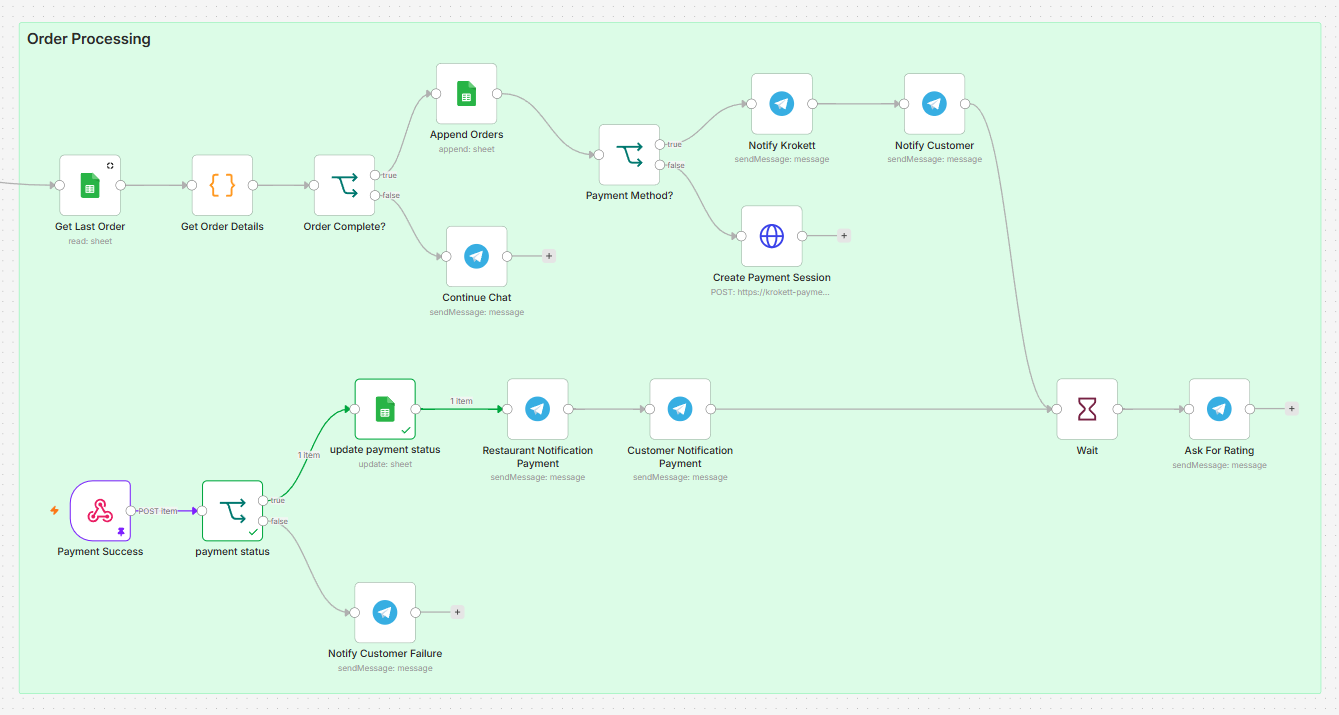
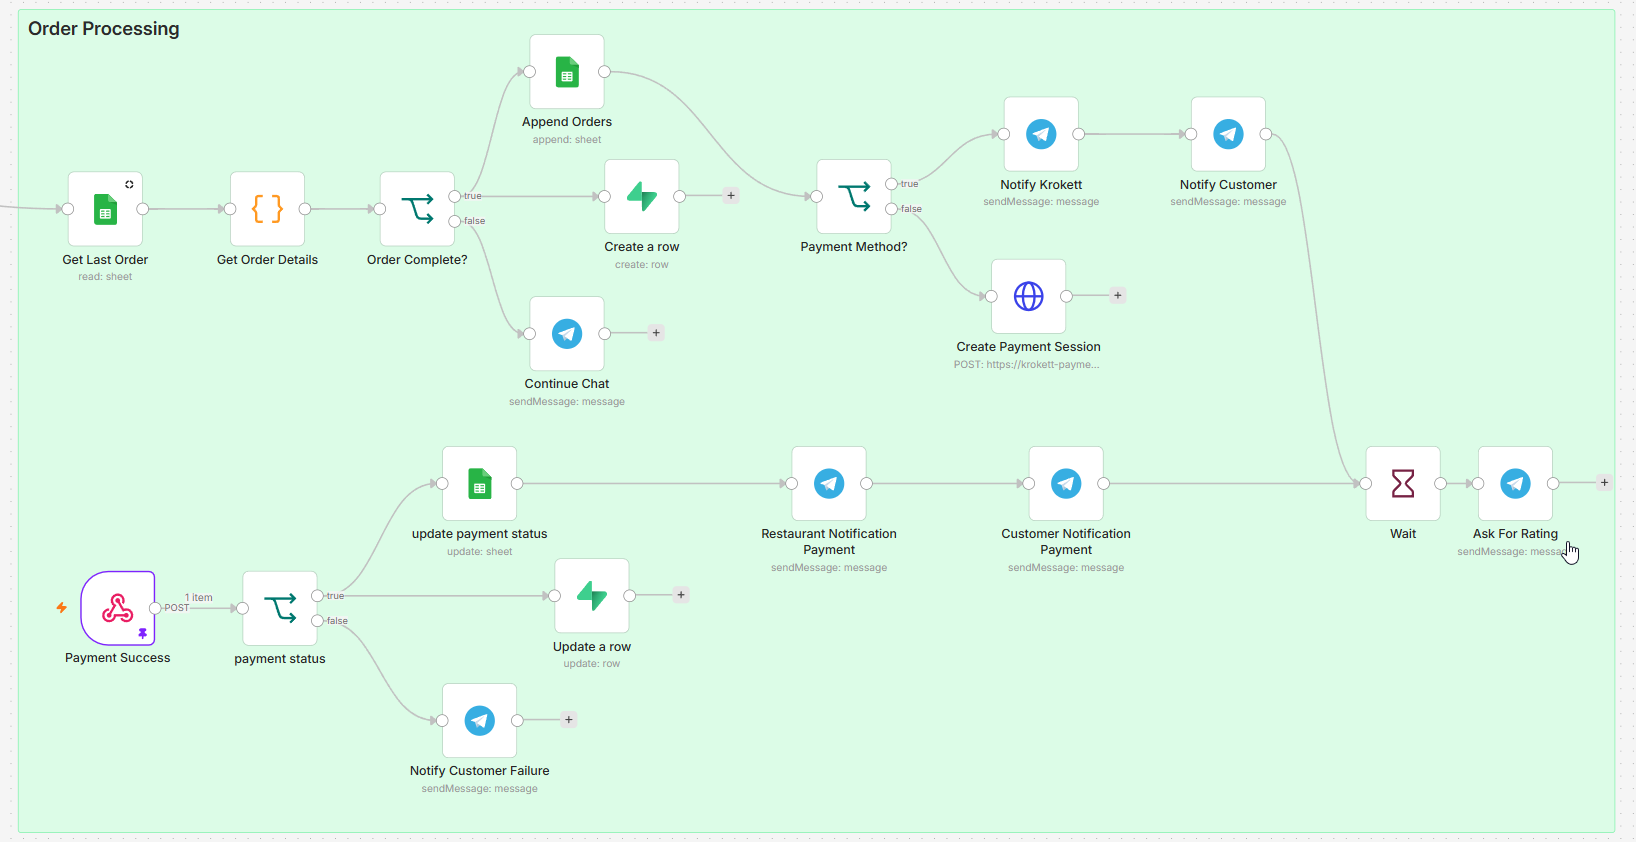
update

Changed region(s): [[0.0, 0.0, 1.0, 1.0], [0.2143, 0.5231, 1.0, 0.8]]

diff --git a/index.html b/index.html
@@ -807,16 +807,16 @@ const A='assets/projects/';
 const P=[
 {n:'Krokett Assistant',d:'krokett/',c:['مطاعم ومبيعات','Restaurants & sales'],p:'krokett-full.png',
  s:['مساعد طلبات المطاعم عبر تليجرام','Restaurant ordering assistant on Telegram'],
- t:['العميل يبعت رسالة أو صوت على تليجرام ← النظام يفهم الطلب من المنيو، يحسب السعر، يجمع العنوان وطريقة الدفع، ويسجّل الطلب وينبّه المطبخ تلقائيًا.','Customer sends a text or voice note on Telegram → the system reads the order from the menu, prices it, collects address and payment, then logs the order and alerts the kitchen.'],
- f:[['يفهم الرسائل الصوتية والنصية بالعربية','Understands Arabic voice and text'],['يرد من منيو المطعم والأسعار الحقيقية','Replies from the real menu and prices'],['يسجّل الطلب وينبّه المطبخ بدون تدخل يدوي','Logs the order and alerts the kitchen, no manual work']],
- g:['34 Nodes','n8n','RAG / Pinecone','Gemini API','Telegram API'],
+ t:['العميل يبعت رسالة أو صوت على تليجرام ← النظام يفك الصوت إن وُجد، يوجّه المحادثة (ترحيب / طلب / تتبع / تقييم)، يفهم الطلب من المنيو عبر AI + RAG، يسجّل الطلب، يعالج الدفع، وينبّه المطعم والعميل تلقائيًا.','Customer sends text or voice on Telegram → the system transcribes voice if needed, routes the chat (welcome / order / track / rating), understands the order from the menu via AI + RAG, logs it, handles payment, and notifies the restaurant and customer automatically.'],
+ f:[['يفهم الرسائل النصية والصوتية بالعربية','Understands Arabic text and voice messages'],['توجيه ذكي: ترحيب، طلب، تتبع طلب، وتقييم','Smart routing: welcome, order, track order, and rating'],['AI + RAG من منيو المطعم مع ذاكرة محادثة','AI + RAG from the restaurant menu with chat memory'],['تسجيل الطلب، الدفع، وتنبيه المطعم والعميل','Order logging, payment, and restaurant + customer alerts']],
+ g:['n8n','Gemini AI','Pinecone / RAG','HuggingFace Embeddings','Telegram API','Google Sheets'],
  v:[{f:'krokett-mockup.mp4',portrait:true}],
  b:[
-  {t:['المخطط الكامل','Full blueprint'],f:'krokett-full.png',d:['نظرة شاملة على مسار الطلب من أول رسالة لحد تسجيله وتنبيه المطبخ.','Full path from the first message to order logging and kitchen alert.']},
-  {t:['الاستقبال والصوت','Intake & voice'],f:'Trigger.png',d:['استقبال رسائل تليجرام وفك الرسائل الصوتية عشان النظام يفهم الطلب.','Receives Telegram messages and transcribes voice notes so the system understands the order.']},
-  {t:['توجيه المسارات','Routing'],f:'message-routing.png',d:['توجيه المحادثة: استفسار عن المنيو، طلب جديد، أو متابعة طلب سابق.','Routes the chat: menu inquiry, new order, or follow-up on an existing one.']},
-  {t:['محرك الذكاء الاصطناعي','AI engine'],f:'order-processing.png',d:['الذكاء الاصطناعي + قاعدة المعرفة (RAG) لقراءة المنيو والأسعار والرد بدقة.','AI + knowledge base (RAG) to read the menu and prices and reply accurately.']},
-  {t:['التأكيد والتخزين','Confirm & store'],f:'message-confirmation.png',d:['تسجيل الطلب في الجدول وإرسال تنبيه للمطبخ أو المسؤول.','Logs the order in the sheet and sends an alert to the kitchen or manager.']}
+  {t:['المخطط الكامل','Full blueprint'],f:'krokett-full.png',d:['نظرة على النظام كامل: استقبال تليجرام، توجيه المسارات، الـ AI Agent، ومعالجة الطلب والدفع.','Full system overview: Telegram intake, message routing, AI Agent, and order + payment processing.']},
+  {t:['الاستقبال والصوت','Intake & voice'],f:'Trigger.png',d:['استقبال رسائل تليجرام والـ callbacks، وفك الرسائل الصوتية ودمج النص قبل التوجيه.','Receives Telegram messages and callbacks, downloads voice files, transcribes them, and merges the text before routing.']},
+  {t:['توجيه المسارات','Message routing'],f:'message-routing.png',d:['توجيه المحادثة: ترحيب، تتبع طلب، إعادة طلب، أو تقييم — مع تنبيهات للعميل والمطعم.','Routes the chat: welcome, track order, repeat order, or rating — with alerts to the customer and restaurant.']},
+  {t:['الـ AI Agent','AI Agent'],f:'ai-agent.png',d:['وكيل ذكي بـ Gemini وذاكرة محادثة وقاعدة معرفة Pinecone (المنيو والأسعار) للرد بدقة.','Smart agent with Gemini, chat memory, and a Pinecone knowledge base (menu and prices) for accurate replies.']},
+  {t:['معالجة الطلب والدفع','Order & payment'],f:'order-processing.png',d:['إكمال الطلب، تسجيله في الشيت، إنشاء جلسة دفع إن لزم، وتنبيه المطعم والعميل ثم طلب التقييم.','Completes the order, logs it to the sheet, creates a payment session if needed, notifies restaurant and customer, then asks for a rating.']}
  ]},
 {n:'HR Ninja Assistant',d:'hrninja/',c:['موارد بشرية','HR'],p:'hr-ninja-full.png',
  s:['أتمتة إجازات الموظفين عبر واتساب وتليجرام','Employee leave automation on WhatsApp & Telegram'],
